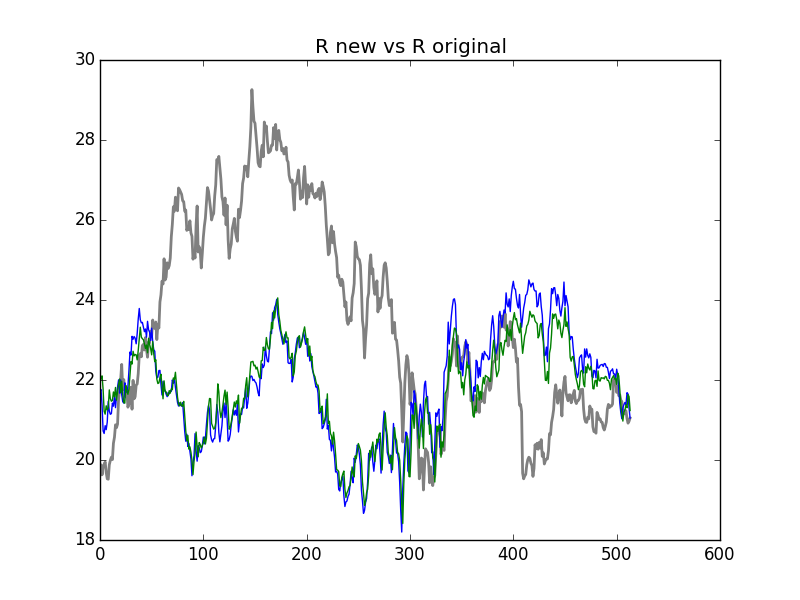
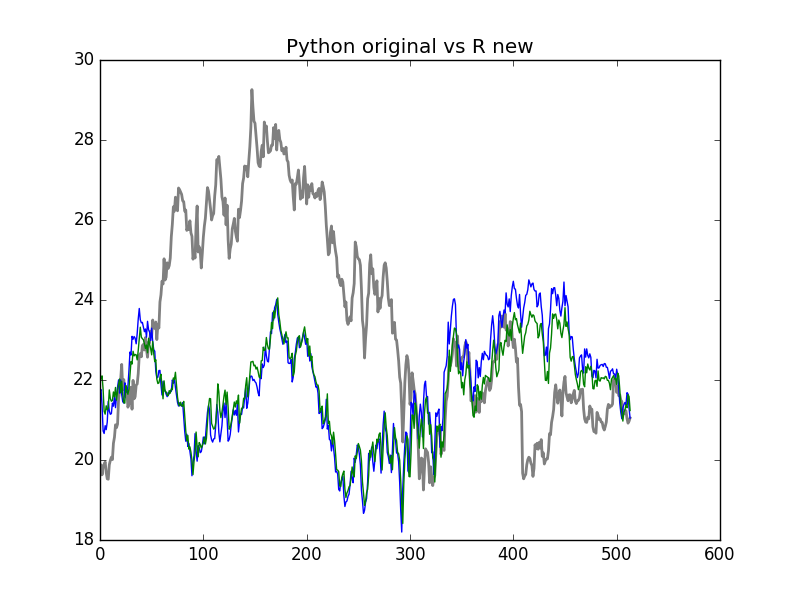
final clean up for the first draft

diff --git a/Bachelor/PythonVsR.tex b/Bachelor/PythonVsR.tex
@@ -391,19 +391,18 @@ The Python program gets 5.71 points in total.\\
 The subjective arguments for and against are: 
 \begin{enumerate}
     \item Code is easy to understand, since syntax is much like simple English.
-    \item The data structures are exactly same as you imagine
+    \item The data structures are exactly same as you imagine.
     \item Slicing of the data arrays is normally intuitive (unless you have a multidimensional custom structure).
     \item For small data arrays the language is fast enough even without tricks.
     \item Debugging messages are easy to understand.
 \end{enumerate}  
 
-
 \newpage
 \section{R}
 \subsection{The structure of the program}
-The program written in R language has the same structure as the Python program. The R program consists of three classes: DataFormatting.r, StatisticTests.r and BiuldModel.r. Their functions are similar to the same functions from the first program. However there are slight differences in the inner functions of the classes. The main class is not implemented, since we wanted more control over the program flow and thus have called all functions and imported classes via console in R run time.\\
-The R language is very convenient in terms of data formatting - you don't need it. The object called Data.frame is returned when using read.csv() from the base package. This object has methods that allow the programmer to use the data from different spots in the program and for different purposes directly without extracting it and saving in a proper format. For example the list of all companies from the table was extracted using the function "colnames(data.frame)" as an output we get the list object containing the elements from the first row of the table. So our R program does not have inner helpers - converter functions, thus is a bit easier to understand.\\
-The The StatisticTests.r runs tests to detect statistic characteristics of the data: Kolmogorov-Smirnov goodness of fit distribution test, Augmented Dickey-Fuller test to detect unit root, build cumulative distribution function and kernel density function, find moments (mean, standard deviation, skew, kurtosis).\\
+The program written in R language has the same structure as the Python program. The R program consists of three classes: DataFormatting.r, StatisticTests.r and BiuldModel.r. Their functions are similar to the same functions from the first program. However there are slight differences in the inner functions of the classes. The main class is implemented in the from of two separate functions for easier usage via console. Since we wanted more control over the program flow, all functions and imported classes were called via console in R run time.\\
+The R language is very convenient in terms of data formatting - you don't need it. The object called Data.frame is returned when using read.csv() from the base package. This object has methods that allow the programmer to use the data from different spots in the program and for different purposes directly without extracting it and saving in a proper format. For example the list of all companies from the table was extracted using the function "colnames(data.frame)" as an output we get the list object containing the elements from the first row of the table. The R program does not have inner helpers - converter functions, thus it is a bit easier to understand.\\
+The class StatisticTests.r runs tests to detect statistic characteristics of the data: Kolmogorov-Smirnov goodness of fit distribution test, Augmented Dickey-Fuller test to detect unit root, build cumulative distribution function and kernel density function, find moments (mean, standard deviation, skew, kurtosis).\\
 The third class, called BuildModel.r, creates the multiple linear regression for given data table following the same steps from the step-forward approach that was used in the Python program:
 \begin{enumerate}
     \item Cut off all companies with correlation less than 30\%.
@@ -494,8 +493,8 @@ The quality of the R documentation is in average on the same level for all sourc
 \[ \frac{\frac{3}{10}(2.5)+\frac{1}{10}(3)+\frac{3}{10}(6)+\frac{3}{10}(6)}{7}= 0.66 \] 
 
 \subsubsection{Advantages and disadvantages of the program}
-Every programming language has its advantages and disadvantages. During writing our second program we have encountered several difficulties assosiated with the language features. Since we have already written our program, we decided to implement the same structure and thus have escaped difficulties choosing proper classes, structure of the program, functions, etc..\\
-The first and a very important advantage of the R program is the data.frame object and associated functions. This object can be formatted or sliced within very small time from every function, the results of the of the slicing can be assigned needed format. One of the most useful functions during the work with R data objects was str() that shows you the structure of the object:
+During writing our second program we have encountered several difficulties assosiated with the language features. Since we have already written our program in Python, we have decided to implement the same structure and thus have escaped difficulties choosing proper classes, structure of the program, functions, etc..\\
+The first and a very important advantage of the R program is the data.frame object and associated functions. This object can be formatted or sliced within very small time from every function, the results of the of the slicing can be assigned needed format. One of the most useful functions during the work with R data objects was str() that shows the structure of the object:
 \begin{verbatim}
 > str(data)
 'data.frame':   1239 obs. of  69 variables:
@@ -516,7 +515,7 @@ The slicing is very useful, when you know how exactly to handle it. For instance
  chr [1:69] "Intel" "AMD" "Qualcomm" "MicronTech" "Infenion" ...
 \end{verbatim} 
 In comparison to the Python program, where we have to store the data into dictionary with the names as the keys and the lists of share prices as the associated values, the names in the data.frame and other formats are coming in exact same order as they appear in the table. This feature make it very easy to extract the dependent variable, also you will have to know only the name of the variable for further computations.\\
-The second advantage of the program is closely connected to the the function we have used to build the regression. As we described in the "Program Structure" and "Used Libraries" sections, for the regression we have used gls function from the nlme package. The use of the function is intuitive: you provide the formula for the regression and the data containing all given names from the formula (optional if the environment already have the data set loaded). Below two examples of the gls use are presented (these examples are not an optimal decision, but a show case):
+The second advantage of the program is closely connected to the the function we have used to build the regression. As we described in the "Program Structure" and "Used Libraries" sections, for the regression we have used gls function from the nlme package. The use of the function is intuitive: you provide the formula for the regression and the data containing all given names from the formula (optional if the environment already have the data set loaded). Below two examples of the gls use are presented (following examples are not an optimal decision, but a show case):
 \begin{verbatim}
 > model1<-gls(Intel ~ Olympus + Google + AMD + St.Jude, data)
 > model1
@@ -546,10 +545,10 @@ Coefficients:
 Degrees of freedom: 1239 total; 1235 residual
 Residual standard error: 2.451844
 \end{verbatim}
-Another positive moment about gls function is its data use. In comparison to python you don't have to format it and separate the data for chosen variables from the rest of the data object. You can use the data.frame loaded into the environment or use external data source, for example, for predictions. If y the formula doesn't composed automatically, the only thing you have to care about is matching of the variable names from the formula and names in data.frame.\\
-The third advantage of the R program is its performance. Without explicit multiprocessing or JIT (just in time compiler is not used in this work), the program runs within a minute.\textcolor{red}{total run time}\\
-The first and probably main disadvantage of the R language is its difficulty. The syntax is not intuitive, the data structures and their use are non trivial. In order to begin using R you will have to look through several tutorials and maybe full introduction course. The R background of the author of this work consisted only of the coursera "R programming" course [20], which didn't cover the whole program structure and the course was using RStudio [21]. RStudio is a good IDE for R to begin with, but if you need more control and understanding, you should switch to the console and a simple IDE to write the classes.\\
-The first example of the R complexity is the absence of the classes in their normal understanding. In R there are three type of classes: S3, S4 and Regference Class. The last one is close to normal Python classes. The first two are repsenting the attribute of an object (in R everything considered as an object). In our program we only used the Reference class and didn't dive into the other two classes. More information on OO systems in R you can visit [22]. \\
+Another positive moment about gls function is its data use. In comparison to python you don't have to format it and separate the data for chosen variables from the rest of the data object. You can use the data.frame loaded into the environment or use external data source, for example, for predictions.\\
+The third advantage of the R program is its performance. Without explicit multiprocessing or JIT (just in time compiler is not used in this work), the program runs within a very small amount of time.\\
+The first and probably main disadvantage of the R language is its difficulty. The syntax is not intuitive, the data structures and their use are non trivial. In order to begin using R you will have to look through several tutorials and the introduction course. The R background of the author of this work consisted only of the coursera "R programming" course [20], which didn't cover the whole program structure and the course was using RStudio [21]. RStudio is a good IDE for R to begin with, but if you need more control and understanding, you should switch to the console and a simple IDE to write the classes.\\
+The first example of the R complexity is the absence of the classes in their normal understanding. In R there are three type of classes: S3, S4 and Regference Class. The last one is close to normal Python classes. The first two are repsenting the attribute of an object (in R everything considered as an object). In our program we only used the Reference class and didn't dive into the other two classes. For more information on OO systems in R you can visit the source [22]. \\
 The second disadvantage of the R program is connected to Reference Class definition. In R you can not return multiple instances. Following implementation will return an error:
 \begin{verbatim}
 getData <- setRefClass("getData",
@@ -612,9 +611,6 @@ Another disadvantage of the R program in the beginning is the slicing. On one ha
 \end{verbatim}
 Slicing is a powerful tool in R, but for beginners it might be a problem to use it properly.
 \subsection{Results}
-
-\newpage
-\section{Results}
 Our R program does not have the main class as in Python program, however main function is implemented, where all libraries are activated, classes are imported and the final calculation is run. The output is printed out to terminal from which the program was started. This is the extended output for gls function: summary.gls:
 \begin{verbatim}
 > source("main.r")
@@ -683,8 +679,12 @@ The subjective arguments are:
     \item More.
 \end{enumerate}
 
+\newpage
+\section{Results}
+In this section the final comparison of the programs written in two languages will be presented.
+
 \subsection{Objective comparison}
-In this section the final comparison of the programs written in two languages will be presented. Here we will explain the difference in the scores and also check the accuracy of the predictions both programs yield.\\
+Here we will explain the difference in the scores and also check the accuracy of the predictions both programs yield.\\
 The first difference between programs is the performance. In order to show the difference in the run time of the programs we will use system.time() for R and cProfile for Python (the examples of the code were already given above).
 \begin{verbatim}
 > system.time(data_read())                                                                  
@@ -714,10 +714,7 @@ The main function consists of three parts: read the data from the csv table and 
    user  system elapsed 
   0.000   0.000   0.117 
 \end{verbatim}
-The run time of the main function is greater than the sum of its parts, since the main function loads needed libraries and also counts the time for the data transfer between the classes as well as the initialization of the classes.\\
-The Python program performance is not that impressive as by the R program:\\
-\textcolor{red}{here compare overall run time, 3 main parts run time}
-\\
+The run time of the main function is greater than the sum of its parts, since the main function loads needed libraries and also counts the time for the data transfer between the classes as well as the initialization of the classes. The Python program performance in our implementation is 750 times slower. R program runs for 7.41 seconds versus 5564.19 seconds Python program.\\
 The second difference is the memory used by each program. There are several possibilities to measure the memory load of the programs. In R you can use Rprofmem() from the utilities package to determine how much memory was used by the object (in R everything is considered as an object). In Python different tools and built-in classes can be used to do the profiling for example memory\_profile [11]. However in this work we will use the unix time command from the console for both programs in order to get more accurate results. The printed message contains many details, but we will be interested in the Maximum resident set size, which means the amount of memory belogning to the process and currently presented in RAM.\\ 
 The R memory use looks as following:
 \begin{verbatim}
@@ -806,7 +803,7 @@ the mean absolute error of the prediction is: 2.83819120505
 the root mean squared error is: 3.47169327209
 \end{verbatim}
 \includegraphics[scale=0.75]{PythonPredictions.png}\\
-As you can see, the Python prediction statistically speaking is better, than the R prediction. Both mean absolute error and root mean square error are smaller by the Python results. The Python program gets 1 additional point for the relative accuracy. On the following graph you can see both predictions together, where the R forecasts have green color and blue color belongs to the Python forecasts.\\
+As you can see, the Python predictions statistically speaking are better, than the R predictions. Both mean absolute error and root mean square error are smaller by the Python results. The Python program gets 1 additional point for the relative accuracy. On the following graph you can see both predictions together, where the R forecasts have green color and blue color belongs to the Python forecasts.\\
 \includegraphics[scale=0.75]{BothPredictions.png}\\
 As the following step we will force both Python and R programs to show the cross results. The python will yield predictions for the final model from R: ["Cardinal", "Olympus", "St.Jude", "Lenovo", "MicronTech", "STMElectro"]. And the R program will return the forecast for the Python final model: ["Google", "Olympus", "St.Jude", "Lenovo", "MicronTech", "STMElectro"]\\
 The R cross-result is:
@@ -899,6 +896,7 @@ During the process of the program development Both languages have shown their go
     \item Sufficient amount of tutorials and examples for every function used in the program.
     \item Intuitive data structures.
     \item Very clear debugging messages.
+    \item Possibility to use simple speed up in form the of pypy.
 \end{enumerate}
 The bad sides of the language for this work are:
 \begin{enumerate}
@@ -924,9 +922,10 @@ Subjectively speaking R is slightly better for data analysis programs, when you 
 \subsection{Conclusion}
 After point to point comparison and collecting the personal opinion, we have decided, that R programming language is more suitable for pure analytical task.
 \begin{enumerate}
-    \item The language is fast.
+    \item The language is faster.
     \item The language is not memory hungry.
     \item The results are adequately accurate. 
+    \item The complex functions are easier to use.
 \end{enumerate}
 The R language has a big high-quality community behind it. There are certain standards for the documentation and the code quality, which ensures the quality of the libraries.\\
 The negative moment can be the development of a bigger program. Prototyping in R can be tricky for mid- and very complex programs. You have to think in advance about class connections. Although you can also keep everything in functions form - this will allow you to prototype faster, but will cause some difficulties later on during refactoring.\\

diff --git a/Bachelor/python/__main___.py b/Bachelor/python/__main___.py
@@ -114,11 +114,11 @@ if __name__ == '__main__':
 	pred_data = DataFormatting("../data/Predictions.csv")
 	dict_pred = pred_data.keep_dict()	
 	plt.figure()
-	plt.title("Python new vs R original")
+	plt.title("Python original vs R new")
 	rl = plt.plot(dict_pred["Intel"], color="grey", linewidth=2.0)
-	ppr = plt.plot(dict_pred["PythonNew"], color="blue", linewidth=1.0)
-	rpr = plt.plot(dict_pred["R_Original"], color="green", linewidth=1.0)
-	plt.savefig("../ROriginalVsPythonNew.png")
+	ppr = plt.plot(dict_pred["PythonOriginal"], color="blue", linewidth=1.0)
+	rpr = plt.plot(dict_pred["R_New"], color="green", linewidth=1.0)
+	plt.savefig("../PythonOriginalVsRNew.png")
 	plt.clf()
 
 	# cProfile.run('collect_data(file_name)')
